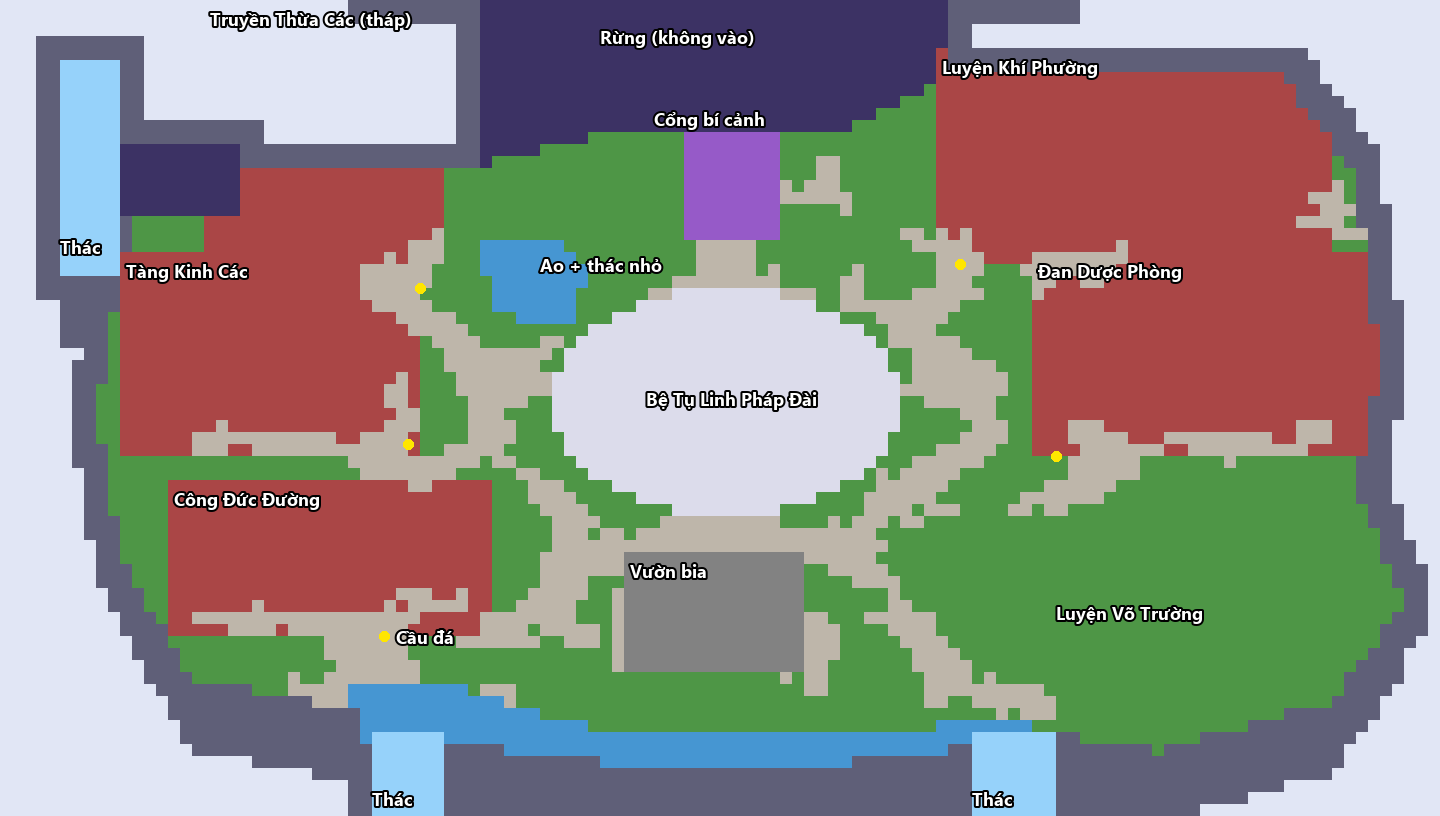
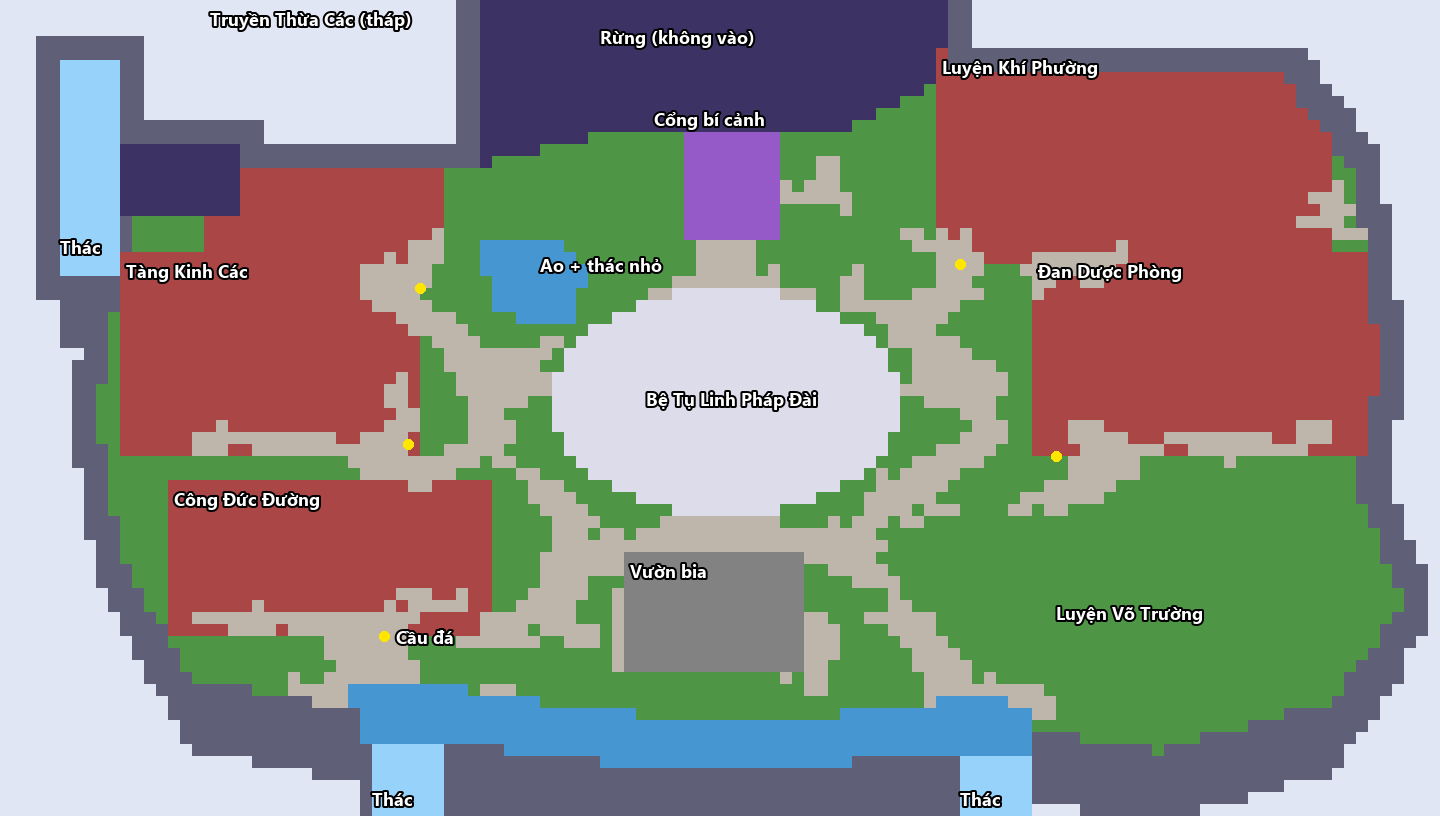
M8: sua vat the sanh: cay lui khoi mep vach, co de len nha, nha mo khi di sau, bong den, song rong hon, thac bat dau o mep bo + mau theo suoi, bo goc vach bac thang

diff --git a/src/data/sect_bocuc.js b/src/data/sect_bocuc.js
@@ -1,3 +1,3 @@
 // SINH TỰ ĐỘNG bởi tools/sect_bo_cuc.py — bố cục sảnh theo concept ảnh 1 (lưới ô). Đừng sửa tay.
 // . cỏ, = đường đá, ~ nước, d sân đất, ^ vách núi, T rừng, B chỗ công trình, P bệ, G cổng, X mây, b vườn bia, W thác
-export const BOCUC = {"nx": 120, "ny": 68, "rows": ["XXXXXXXXXXXXXXXXXXXXXXXXXXXXX^^^^^^^^^^^TTTTTTTTTTTTTTTTTTTTTTTTTTTTTTTTTTTTTTT^^^^^^^^^^^XXXXXXXXXXXXXXXXXXXXXXXXXXXXXX", "XXXXXXXXXXXXXXXXXXXXXXXXXXXXX^^^^^^^^^^^TTTTTTTTTTTTTTTTTTTTTTTTTTTTTTTTTTTTTTT^^^^^^^^^^^XXXXXXXXXXXXXXXXXXXXXXXXXXXXXX", "XXXXXXXXXXXXXXXXXXXXXXXXXXXXXXXXXXXXXX^^TTTTTTTTTTTTTTTTTTTTTTTTTTTTTTTTTTTTTTT^^XXXXXXXXXXXXXXXXXXXXXXXXXXXXXXXXXXXXXXX", "XXX^^^^^^^^^XXXXXXXXXXXXXXXXXXXXXXXXXX^^TTTTTTTTTTTTTTTTTTTTTTTTTTTTTTTTTTTTTTT^^XXXXXXXXXXXXXXXXXXXXXXXXXXXXXXXXXXXXXXX", "XXX^^^^^^^^^XXXXXXXXXXXXXXXXXXXXXXXXXX^^TTTTTTTTTTTTTTTTTTTTTTTTTTTTTTTTTTTTTTB^^^^^^^^^^^^^^^^^^^^^^^^^^^^^^XXXXXXXXXXX", "XXX^^WWWWW^^XXXXXXXXXXXXXXXXXXXXXXXXXX^^TTTTTTTTTTTTTTTTTTTTTTTTTTTTTTTTTTTTTTB^^^^^^^^^^^^^^^^^^^^^^^^^^^^^^^XXXXXXXXXX", "XXX^^WWWWW^^XXXXXXXXXXXXXXXXXXXXXXXXXX^^TTTTTTTTTTTTTTTTTTTTTTTTTTTTTTTTTTTTTTBBBBBBBBBBBBBBBBBBBBBBBBBBBBB^^^XXXXXXXXXX", "XXX^^WWWWW^^XXXXXXXXXXXXXXXXXXXXXXXXXX^^TTTTTTTTTTTTTTTTTTTTTTTTTTTTTTTTTTTTT.BBBBBBBBBBBBBBBBBBBBBBBBBBBBBB^^^XXXXXXXXX", "XXX^^WWWWW^^XXXXXXXXXXXXXXXXXXXXXXXXXX^^TTTTTTTTTTTTTTTTTTTTTTTTTTTTTTTTTTT...BBBBBBBBBBBBBBBBBBBBBBBBBBBBBB^^^^XXXXXXXX", "XXX^^WWWWW^^XXXXXXXXXXXXXXXXXXXXXXXXXX^^TTTTTTTTTTTTTTTTTTTTTTTTTTTTTTTTT.....BBBBBBBBBBBBBBBBBBBBBBBBBBBBBBB^^^^XXXXXXX", "XXX^^WWWWW^^^^^^^^^^^^XXXXXXXXXXXXXXXX^^TTTTTTTTTTTTTTTTTTTTTTTTTTTTTTT.......BBBBBBBBBBBBBBBBBBBBBBBBBBBBBBBB^^^XXXXXXX", "XXX^^WWWWW^^^^^^^^^^^^XXXXXXXXXXXXXXXX^^TTTTTTTTT........GGGGGGGG.............BBBBBBBBBBBBBBBBBBBBBBBBBBBBBBBBB^^^XXXXXX", "XXX^^WWWWWTTTTTTTTTT^^^^^^^^^^^^^^^^^^^^TTTTT............GGGGGGGG.............BBBBBBBBBBBBBBBBBBBBBBBBBBBBBBBBB^^^^XXXXX", "XXX^^WWWWWTTTTTTTTTT^^^^^^^^^^^^^^^^^^^^T................GGGGGGGG...==........BBBBBBBBBBBBBBBBBBBBBBBBBBBBBBBBB.^^^XXXXX", "XXX^^WWWWWTTTTTTTTTTBBBBBBBBBBBBBBBBB....................GGGGGGGG...==........BBBBBBBBBBBBBBBBBBBBBBBBBBBBBBBBB..^^XXXXX", "XXX^^WWWWWTTTTTTTTTTBBBBBBBBBBBBBBBBB....................GGGGGGGG=.===........BBBBBBBBBBBBBBBBBBBBBBBBBBBBBBBBB=.^^XXXXX", "XXX^^WWWWWTTTTTTTTTTBBBBBBBBBBBBBBBBB....................GGGGGGGG======.......BBBBBBBBBBBBBBBBBBBBBBBBBBBBBBB===.^^XXXXX", "XXX^^WWWWWTTTTTTTTTTBBBBBBBBBBBBBBBBB....................GGGGGGGG.....=.......BBBBBBBBBBBBBBBBBBBBBBBBBBBBBBBB===^^^XXXX", "XXX^^WWWWW^......BBBBBBBBBBBBBBBBBBBB....................GGGGGGGG.............BBBBBBBBBBBBBBBBBBBBBBBBBBBBBB====.^^^XXXX", "XXX^^WWWWW^......BBBBBBBBBBBBBBBBBBB=....................GGGGGGGG..........==.=B=BBBBBBBBBBBBBBBBBBBBBBBBBBBBBB===^^XXXX", "XXX^^WWWWW^......BBBBBBBBBBBBBBBBB===...~~~~~~~...........=====.............=====BBBBBBBBBBBB=BBBBBBBBBBBBBBBBB...^^XXXX", "XXX^^WWWWWBBBBBBBBBBBBBBBBBBBBBB=B===...~~~~~~~~..........=====...............====BBBB========BBBBBBBBBBBBBBBBBBBB^^XXXX", "XXX^^WWWWWBBBBBBBBBBBBBBBBBBBB======....~~~~~~~~~.........=====.=......=......====...========BBBBBBBBBBBBBBBBBBBBB^^XXXX", "XXX^^^^^^^BBBBBBBBBBBBBBBBBBBB======.....~~~~~~~~.......=========.....==......===.....==BB==BBBBBBBBBBBBBBBBBBBBBB^^XXXX", "XXX^^^^^^^BBBBBBBBBBBBBBBBBBBB=====......~~~~~~~......==PPPPPPPPP===..==....======....=BBBBBBBBBBBBBBBBBBBBBBBBBBB^^XXXX", "XXXXX^^^^^BBBBBBBBBBBBBBBBBBBBB=====.....~~~~~~~.....PPPPPPPPPPPPPPP..==========......BBBBBBBBBBBBBBBBBBBBBBBBBBBB^^^XXX", "XXXXX^^^^.BBBBBBBBBBBBBBBBBBBBBBB=====.....~~~~~...PPPPPPPPPPPPPPPPPPP...======.......BBBBBBBBBBBBBBBBBBBBBBBBBBBB^^^XXX", "XXXXX^^^^.BBBBBBBBBBBBBBBBBBBBBBBB=====..........PPPPPPPPPPPPPPPPPPPPPPP..====........BBBBBBBBBBBBBBBBBBBBBBBBBBBBB^^XXX", "XXXXX^^^^.BBBBBBBBBBBBBBBBBBBBBBBBB.====.....==.PPPPPPPPPPPPPPPPPPPPPPPPP.======......BBBBBBBBBBBBBBBBBBBBBBBBBBBBB^^XXX", "XXXXXXX^^.BBBBBBBBBBBBBBBBBBBBBBBBB..=========.PPPPPPPPPPPPPPPPPPPPPPPPPPP..=====.....BBBBBBBBBBBBBBBBBBBBBBBBBBBBB^^XXX", "XXXXXX^^^.BBBBBBBBBBBBBBBBBBBBBBBBB..========..PPPPPPPPPPPPPPPPPPPPPPPPPPP..=======...BBBBBBBBBBBBBBBBBBBBBBBBBBBBB^^XXX", "XXXXXX^^^.BBBBBBBBBBBBBBBBBBBBBBB=B...========PPPPPPPPPPPPPPPPPPPPPPPPPPPPP.========..BBBBBBBBBBBBBBBBBBBBBBBBBBBBB^^XXX", "XXXXXX^^..BBBBBBBBBBBBBBBBBBBBBB==B...========PPPPPPPPPPPPPPPPPPPPPPPPPPPPP=========..BBBBBBBBBBBBBBBBBBBBBBBBBBBBB^^XXX", "XXXXXX^^..BBBBBBBBBBBBBBBBBBBBBB==B....=====..PPPPPPPPPPPPPPPPPPPPPPPPPPPPP..======...BBBBBBBBBBBBBBBBBBBBBBBBBBBB^^^XXX", "XXXXXX^^..BBBBBBBBBBBBBBBBBBBBBBB==....===....PPPPPPPPPPPPPPPPPPPPPPPPPPPPP.....===...BBBBBBBBBBBBBBBBBBBBBBBBBBBB^^^XXX", "XXXXXX^^..BBBBBBBB=BBBBBBBBBBBBB===....====...PPPPPPPPPPPPPPPPPPPPPPPPPPPPP......===..BBB===BBBBBBBBBBBBBBBB===BBB^^XXXX", "XXXXXX^^..BBBBBB============BB====B....====....PPPPPPPPPPPPPPPPPPPPPPPPPPP......====..BBB=====BBB=========BB===BBB^^XXXX", "XXXXXX^^^.BBBBBB===BB=============B..=====.....PPPPPPPPPPPPPPPPPPPPPPPPPPP....=====...BBBB=======BB==========BBBBB^^XXXX", "XXXXXX^^^....................===========.==.....PPPPPPPPPPPPPPPPPPPPPPPPP...======.......======.......=..........^^^XXXX", "XXXXXXX^^.....................========.....==....PPPPPPPPPPPPPPPPPPPPPPP.=.=====.........======..................^^^XXXX", "XXXXXXX^^.....BBBBBBBBBBBBBBBBBBBB==BBBBB...===....PPPPPPPPPPPPPPPPPPP...======........======....................^^^XXXX", "XXXXXXX^^.....BBBBBBBBBBBBBBBBBBBBBBBBBBB...====.....PPPPPPPPPPPPPPP....======.......=======.....................^^^XXXX", "XXXXXXX^^.....BBBBBBBBBBBBBBBBBBBBBBBBBBB....====.......PPPPPPPPP.......====.===....==.==.........................^^^XXX", "XXXXXXX^^^....BBBBBBBBBBBBBBBBBBBBBBBBBBB.....====.....==========....=.===.==.....................................^^^XXX", "XXXXXXX^^^....BBBBBBBBBBBBBBBBBBBBBBBBBBB.....===.==.====================..........................................^^XXX", "XXXXXXXX^^....BBBBBBBBBBBBBBBBBBBBBBBBBBB.....============================.........................................^^^XX", "XXXXXXXX^^....BBBBBBBBBBBBBBBBBBBBBBBBBBB....=======bbbbbbbbbbbbbbb======..........................................^^^XX", "XXXXXXXX^^^...BBBBBBBBBBBBBBBBBBBBBBBBBBB....=======bbbbbbbbbbbbbbb..=====..........................................^^^X", "XXXXXXXX^^^...BBBBBBBBBBBBBBBBBBBBBBBBBBB....====...bbbbbbbbbbbbbbb....====.........................................^^^X", "XXXXXXXXX^^^..BBBBBBBBBBBBBBBBBBB===BB=BB...=====..=bbbbbbbbbbbbbbb.......=..........................................^^X", "XXXXXXXXX^^^..BBBBBBB=BBBBBBBBBB=B=====BB..=====...=bbbbbbbbbbbbbbb.......==.........................................^^X", "XXXXXXXXXX^^^.BB===================BBBBB========...=bbbbbbbbbbbbbbb==...======......................................^^^X", "XXXXXXXXXX^^^^BBBBB====B==========BBBBBB====.=====.=bbbbbbbbbbbbbbb===....====.....................................^^^^X", "XXXXXXXXXXX^^^.............=======....=======..===.=bbbbbbbbbbbbbbb===.....====....................................^^^XX", "XXXXXXXXXXX^^^^............=======.................=bbbbbbbbbbbbbbb===......====..................................^^^XXX", "XXXXXXXXXXXX^^^.............=======................=bbbbbbbbbbbbbbb==.......=====................................^^^^XXX", "XXXXXXXXXXXX^^^^........=..========..............................=.==........====.=.............................^^^^^XXX", "XXXXXXXXXXXXX^^^^^^^^...=====~~~~~~~~~~.===........................==........==========.........................^^^^XXXX", "XXXXXXXXXXXXXX^^^^^^^^^^^^===~~~~~~~~~~~~~=..................................==..=======.......................^^^^XXXXX", "XXXXXXXXXXXXXX^^^^^^^^^^^^^^^^~~~~~~~~~~~~~~~......................................=.===...................^^^^^^^^XXXXX", "XXXXXXXXXXXXXXX^^^^^^^^^^^^^^^~~~~~~~~~~~~~~~~~~~.............................~~~~~~~~..................^^^^^^^^^^XXXXXX", "XXXXXXXXXXXXXXX^^^^^^^^^^^^^^^~WWWWWW~~~~~~~~~~~~~~~~~~~~~~~~~~~~~~~~~~~~~~~~~~~~WWWWWWW^^..........^^^^^^^^^^^^^XXXXXXX", "XXXXXXXXXXXXXXXX^^^^^^^^^^^^^^^WWWWWW^^^^^~~~~~~~~~~~~~~~~~~~~~~~~~~~~~~~~~~~~~^^WWWWWWW^^^^^^^^.^^^^^^^^^^^^^^^XXXXXXXX", "XXXXXXXXXXXXXXXXXXXXX^^^^^^^^^^WWWWWW^^^^^^^^^^^^^~~~~~~~~~~~~~~~~~~~~~^^^^^^^^^^WWWWWWW^^^^^^^^^^^^^^^^^^^^^^^^XXXXXXXX", "XXXXXXXXXXXXXXXXXXXXXXXXXX^^^^^WWWWWW^^^^^^^^^^^^^^^^^^^^^^^^^^^^^^^^^^^^^^^^^^^^WWWWWWW^^^^^^^^^^^^^^^^^^^^^^^XXXXXXXXX", "XXXXXXXXXXXXXXXXXXXXXXXXXXXXX^^WWWWWW^^^^^^^^^^^^^^^^^^^^^^^^^^^^^^^^^^^^^^^^^^^^WWWWWWW^^^^^^^^^^^^^^^^^^^XXXXXXXXXXXXX", "XXXXXXXXXXXXXXXXXXXXXXXXXXXXX^^WWWWWW^^^^^^^^^^^^^^^^^^^^^^^^^^^^^^^^^^^^^^^^^^^^WWWWWWW^^^^^^^^^^^^^^^^XXXXXXXXXXXXXXXX", "XXXXXXXXXXXXXXXXXXXXXXXXXXXXX^^WWWWWW^^^^^^^^^^^^^^^^^^^^^^^^^^^^^^^^^^^^^^^^^^^^WWWWWWW^^^^^^^^^^^^XXXXXXXXXXXXXXXXXXXX"], "buildings": {"truyen_thua": {"box": [17, 0, 36, 21], "foot": [35, 24], "name": "Truyền Thừa Các (tháp)"}, "tang_kinh": {"box": [10, 21, 34, 37], "foot": [34, 37], "name": "Tàng Kinh Các"}, "cong_duc": {"box": [14, 40, 40, 52], "foot": [32, 53], "name": "Công Đức Đường"}, "luyen_khi": {"box": [78, 4, 110, 21], "foot": [80, 22], "name": "Luyện Khí Phường"}, "dan_duoc": {"box": [86, 21, 114, 37], "foot": [88, 38], "name": "Đan Dược Phòng"}}, "plaza": {"c": [60.5, 33], "rx": 14, "ry": 9}, "gate": {"x": [57, 64], "y": [11, 19]}, "tf": {"c_old": [60.5, 33], "c": [60.5, 33], "sx": 1, "sy": 1}, "pen": {"x": 82, "y": 41, "w": 26, "h": 16, "gate": [83, 86], "door": [84.5, 40.2]}};
+export const BOCUC = {"nx": 120, "ny": 68, "rows": ["XXXXXXXXXXXXXXXXXXXXXXXXXXXXXXXXXXXXXX^^TTTTTTTTTTTTTTTTTTTTTTTTTTTTTTTTTTTTTTT^^XXXXXXXXXXXXXXXXXXXXXXXXXXXXXXXXXXXXXXX", "XXXXXXXXXXXXXXXXXXXXXXXXXXXXXXXXXXXXXX^^TTTTTTTTTTTTTTTTTTTTTTTTTTTTTTTTTTTTTTT^^XXXXXXXXXXXXXXXXXXXXXXXXXXXXXXXXXXXXXXX", "XXXXXXXXXXXXXXXXXXXXXXXXXXXXXXXXXXXXXX^^TTTTTTTTTTTTTTTTTTTTTTTTTTTTTTTTTTTTTTT^^XXXXXXXXXXXXXXXXXXXXXXXXXXXXXXXXXXXXXXX", "XXX^^^^^^^^^XXXXXXXXXXXXXXXXXXXXXXXXXX^^TTTTTTTTTTTTTTTTTTTTTTTTTTTTTTTTTTTTTTT^^XXXXXXXXXXXXXXXXXXXXXXXXXXXXXXXXXXXXXXX", "XXX^^^^^^^^^XXXXXXXXXXXXXXXXXXXXXXXXXX^^TTTTTTTTTTTTTTTTTTTTTTTTTTTTTTTTTTTTTTB^^^^^^^^^^^^^^^^^^^^^^^^^^^^^^XXXXXXXXXXX", "XXX^^WWWWW^^XXXXXXXXXXXXXXXXXXXXXXXXXX^^TTTTTTTTTTTTTTTTTTTTTTTTTTTTTTTTTTTTTTB^^^^^^^^^^^^^^^^^^^^^^^^^^^^^^^XXXXXXXXXX", "XXX^^WWWWW^^XXXXXXXXXXXXXXXXXXXXXXXXXX^^TTTTTTTTTTTTTTTTTTTTTTTTTTTTTTTTTTTTTTBBBBBBBBBBBBBBBBBBBBBBBBBBBBB^^^XXXXXXXXXX", "XXX^^WWWWW^^XXXXXXXXXXXXXXXXXXXXXXXXXX^^TTTTTTTTTTTTTTTTTTTTTTTTTTTTTTTTTTTTT.BBBBBBBBBBBBBBBBBBBBBBBBBBBBBB^^^XXXXXXXXX", "XXX^^WWWWW^^XXXXXXXXXXXXXXXXXXXXXXXXXX^^TTTTTTTTTTTTTTTTTTTTTTTTTTTTTTTTTTT...BBBBBBBBBBBBBBBBBBBBBBBBBBBBBB^^^^XXXXXXXX", "XXX^^WWWWW^^XXXXXXXXXXXXXXXXXXXXXXXXXX^^TTTTTTTTTTTTTTTTTTTTTTTTTTTTTTTTT.....BBBBBBBBBBBBBBBBBBBBBBBBBBBBBBB^^^^XXXXXXX", "XXX^^WWWWW^^^^^^^^^^^^XXXXXXXXXXXXXXXX^^TTTTTTTTTTTTTTTTTTTTTTTTTTTTTTT.......BBBBBBBBBBBBBBBBBBBBBBBBBBBBBBBB^^^XXXXXXX", "XXX^^WWWWW^^^^^^^^^^^^XXXXXXXXXXXXXXXX^^TTTTTTTTT........GGGGGGGG.............BBBBBBBBBBBBBBBBBBBBBBBBBBBBBBBBB^^^XXXXXX", "XXX^^WWWWWTTTTTTTTTT^^^^^^^^^^^^^^^^^^^^TTTTT............GGGGGGGG.............BBBBBBBBBBBBBBBBBBBBBBBBBBBBBBBBB^^^^XXXXX", "XXX^^WWWWWTTTTTTTTTT^^^^^^^^^^^^^^^^^^^^T................GGGGGGGG...==........BBBBBBBBBBBBBBBBBBBBBBBBBBBBBBBBB.^^^XXXXX", "XXX^^WWWWWTTTTTTTTTTBBBBBBBBBBBBBBBBB....................GGGGGGGG...==........BBBBBBBBBBBBBBBBBBBBBBBBBBBBBBBBB..^^XXXXX", "XXX^^WWWWWTTTTTTTTTTBBBBBBBBBBBBBBBBB....................GGGGGGGG=.===........BBBBBBBBBBBBBBBBBBBBBBBBBBBBBBBBB=.^^XXXXX", "XXX^^WWWWWTTTTTTTTTTBBBBBBBBBBBBBBBBB....................GGGGGGGG======.......BBBBBBBBBBBBBBBBBBBBBBBBBBBBBBB===.^^XXXXX", "XXX^^WWWWWTTTTTTTTTTBBBBBBBBBBBBBBBBB....................GGGGGGGG.....=.......BBBBBBBBBBBBBBBBBBBBBBBBBBBBBBBB===^^^XXXX", "XXX^^WWWWW^......BBBBBBBBBBBBBBBBBBBB....................GGGGGGGG.............BBBBBBBBBBBBBBBBBBBBBBBBBBBBBB====.^^^XXXX", "XXX^^WWWWW^......BBBBBBBBBBBBBBBBBBB=....................GGGGGGGG..........==.=B=BBBBBBBBBBBBBBBBBBBBBBBBBBBBBB===^^XXXX", "XXX^^WWWWW^......BBBBBBBBBBBBBBBBB===...~~~~~~~...........=====.............=====BBBBBBBBBBBB=BBBBBBBBBBBBBBBBB...^^XXXX", "XXX^^WWWWWBBBBBBBBBBBBBBBBBBBBBB=B===...~~~~~~~~..........=====...............====BBBB========BBBBBBBBBBBBBBBBBBBB^^XXXX", "XXX^^WWWWWBBBBBBBBBBBBBBBBBBBB======....~~~~~~~~~.........=====.=......=......====...========BBBBBBBBBBBBBBBBBBBBB^^XXXX", "XXX^^^^^^^BBBBBBBBBBBBBBBBBBBB======.....~~~~~~~~.......=========.....==......===.....==BB==BBBBBBBBBBBBBBBBBBBBBB^^XXXX", "XXX^^^^^^^BBBBBBBBBBBBBBBBBBBB=====......~~~~~~~......==PPPPPPPPP===..==....======....=BBBBBBBBBBBBBBBBBBBBBBBBBBB^^XXXX", "XXXXX^^^^^BBBBBBBBBBBBBBBBBBBBB=====.....~~~~~~~.....PPPPPPPPPPPPPPP..==========......BBBBBBBBBBBBBBBBBBBBBBBBBBBB^^^XXX", "XXXXX^^^^.BBBBBBBBBBBBBBBBBBBBBBB=====.....~~~~~...PPPPPPPPPPPPPPPPPPP...======.......BBBBBBBBBBBBBBBBBBBBBBBBBBBB^^^XXX", "XXXXX^^^^.BBBBBBBBBBBBBBBBBBBBBBBB=====..........PPPPPPPPPPPPPPPPPPPPPPP..====........BBBBBBBBBBBBBBBBBBBBBBBBBBBBB^^XXX", "XXXXX^^^^.BBBBBBBBBBBBBBBBBBBBBBBBB.====.....==.PPPPPPPPPPPPPPPPPPPPPPPPP.======......BBBBBBBBBBBBBBBBBBBBBBBBBBBBB^^XXX", "XXXXXXX^^.BBBBBBBBBBBBBBBBBBBBBBBBB..=========.PPPPPPPPPPPPPPPPPPPPPPPPPPP..=====.....BBBBBBBBBBBBBBBBBBBBBBBBBBBBB^^XXX", "XXXXXX^^^.BBBBBBBBBBBBBBBBBBBBBBBBB..========..PPPPPPPPPPPPPPPPPPPPPPPPPPP..=======...BBBBBBBBBBBBBBBBBBBBBBBBBBBBB^^XXX", "XXXXXX^^^.BBBBBBBBBBBBBBBBBBBBBBB=B...========PPPPPPPPPPPPPPPPPPPPPPPPPPPPP.========..BBBBBBBBBBBBBBBBBBBBBBBBBBBBB^^XXX", "XXXXXX^^..BBBBBBBBBBBBBBBBBBBBBB==B...========PPPPPPPPPPPPPPPPPPPPPPPPPPPPP=========..BBBBBBBBBBBBBBBBBBBBBBBBBBBBB^^XXX", "XXXXXX^^..BBBBBBBBBBBBBBBBBBBBBB==B....=====..PPPPPPPPPPPPPPPPPPPPPPPPPPPPP..======...BBBBBBBBBBBBBBBBBBBBBBBBBBBB^^^XXX", "XXXXXX^^..BBBBBBBBBBBBBBBBBBBBBBB==....===....PPPPPPPPPPPPPPPPPPPPPPPPPPPPP.....===...BBBBBBBBBBBBBBBBBBBBBBBBBBBB^^^XXX", "XXXXXX^^..BBBBBBBB=BBBBBBBBBBBBB===....====...PPPPPPPPPPPPPPPPPPPPPPPPPPPPP......===..BBB===BBBBBBBBBBBBBBBB===BBB^^XXXX", "XXXXXX^^..BBBBBB============BB====B....====....PPPPPPPPPPPPPPPPPPPPPPPPPPP......====..BBB=====BBB=========BB===BBB^^XXXX", "XXXXXX^^^.BBBBBB===BB=============B..=====.....PPPPPPPPPPPPPPPPPPPPPPPPPPP....=====...BBBB=======BB==========BBBBB^^XXXX", "XXXXXX^^^....................===========.==.....PPPPPPPPPPPPPPPPPPPPPPPPP...======.......======.......=..........^^^XXXX", "XXXXXXX^^.....................========.....==....PPPPPPPPPPPPPPPPPPPPPPP.=.=====.........======..................^^^XXXX", "XXXXXXX^^.....BBBBBBBBBBBBBBBBBBBB==BBBBB...===....PPPPPPPPPPPPPPPPPPP...======........======....................^^^XXXX", "XXXXXXX^^.....BBBBBBBBBBBBBBBBBBBBBBBBBBB...====.....PPPPPPPPPPPPPPP....======.......=======.....................^^^XXXX", "XXXXXXX^^.....BBBBBBBBBBBBBBBBBBBBBBBBBBB....====.......PPPPPPPPP.......====.===....==.==.........................^^^XXX", "XXXXXXX^^^....BBBBBBBBBBBBBBBBBBBBBBBBBBB.....====.....==========....=.===.==.....................................^^^XXX", "XXXXXXX^^^....BBBBBBBBBBBBBBBBBBBBBBBBBBB.....===.==.====================..........................................^^XXX", "XXXXXXXX^^....BBBBBBBBBBBBBBBBBBBBBBBBBBB.....============================.........................................^^^XX", "XXXXXXXX^^....BBBBBBBBBBBBBBBBBBBBBBBBBBB....=======bbbbbbbbbbbbbbb======..........................................^^^XX", "XXXXXXXX^^^...BBBBBBBBBBBBBBBBBBBBBBBBBBB....=======bbbbbbbbbbbbbbb..=====..........................................^^^X", "XXXXXXXX^^^...BBBBBBBBBBBBBBBBBBBBBBBBBBB....====...bbbbbbbbbbbbbbb....====.........................................^^^X", "XXXXXXXXX^^^..BBBBBBBBBBBBBBBBBBB===BB=BB...=====..=bbbbbbbbbbbbbbb.......=..........................................^^X", "XXXXXXXXX^^^..BBBBBBB=BBBBBBBBBB=B=====BB..=====...=bbbbbbbbbbbbbbb.......==.........................................^^X", "XXXXXXXXXX^^^.BB===================BBBBB========...=bbbbbbbbbbbbbbb==...======......................................^^^X", "XXXXXXXXXX^^^^BBBBB====B==========BBBBBB====.=====.=bbbbbbbbbbbbbbb===....====.....................................^^^^X", "XXXXXXXXXXX^^^.............=======....=======..===.=bbbbbbbbbbbbbbb===.....====....................................^^^XX", "XXXXXXXXXXX^^^^............=======.................=bbbbbbbbbbbbbbb===......====..................................^^^XXX", "XXXXXXXXXXXX^^^.............=======................=bbbbbbbbbbbbbbb==.......=====................................^^^^XXX", "XXXXXXXXXXXX^^^^........=..========..............................=.==........====.=.............................^^^^^XXX", "XXXXXXXXXXXXX^^^^^^^^...=====~~~~~~~~~~.===........................==........==========.........................^^^^XXXX", "XXXXXXXXXXXXXX^^^^^^^^^^^^===~~~~~~~~~~~~~~~~................................==..=======.......................^^^^XXXXX", "XXXXXXXXXXXXXX^^^^^^^^^^^^^^^^~~~~~~~~~~~~~~~~~~~~~~~.................~~~~~~~~~~~~~~~===...................^^^^^^^^XXXXX", "XXXXXXXXXXXXXXX^^^^^^^^^^^^^^^~~~~~~~~~~~~~~~~~~~~~~~~~~~~~~~~~~~~~~~~~~~~~~~~~~~~~~~~..................^^^^^^^^^^XXXXXX", "XXXXXXXXXXXXXXX^^^^^^^^^^^^^^^~~~~~~~~~~~~~~~~~~~~~~~~~~~~~~~~~~~~~~~~~~~~~~~~~~~~~~~~^^^^..........^^^^^^^^^^^^^XXXXXXX", "XXXXXXXXXXXXXXXX^^^^^^^^^^^^^^^WWWWWW^^^^^~~~~~~~~~~~~~~~~~~~~~~~~~~~~~~~~~~~~~~~~~~~~^^^^^^^^^^.^^^^^^^^^^^^^^^XXXXXXXX", "XXXXXXXXXXXXXXXXXXXXX^^^^^^^^^^WWWWWW^^^^^^^^^^^^^~~~~~~~~~~~~~~~~~~~~~^^^^^^^^^WWWWWW^^^^^^^^^^^^^^^^^^^^^^^^^^XXXXXXXX", "XXXXXXXXXXXXXXXXXXXXXXXXXX^^^^^WWWWWW^^^^^^^^^^^^^^^^^^^^^^^^^^^^^^^^^^^^^^^^^^^WWWWWW^^^^^^^^^^^^^^^^^^^^^^^^^XXXXXXXXX", "XXXXXXXXXXXXXXXXXXXXXXXXXXXXXX^WWWWWW^^^^^^^^^^^^^^^^^^^^^^^^^^^^^^^^^^^^^^^^^^^WWWWWW^^^^^^^^^^^^^^^^^^^^^XXXXXXXXXXXXX", "XXXXXXXXXXXXXXXXXXXXXXXXXXXXXX^WWWWWW^^^^^^^^^^^^^^^^^^^^^^^^^^^^^^^^^^^^^^^^^^^WWWWWW^^^^^^^^^^^^^^^^^^XXXXXXXXXXXXXXXX", "XXXXXXXXXXXXXXXXXXXXXXXXXXXXXX^WWWWWW^^^^^^^^^^^^^^^^^^^^^^^^^^^^^^^^^^^^^^^^^^^WWWWWWXXXX^^^^^^^^^^XXXXXXXXXXXXXXXXXXXX"], "buildings": {"truyen_thua": {"box": [17, 0, 36, 21], "foot": [35, 24], "name": "Truyền Thừa Các (tháp)"}, "tang_kinh": {"box": [10, 21, 34, 37], "foot": [34, 37], "name": "Tàng Kinh Các"}, "cong_duc": {"box": [14, 40, 40, 52], "foot": [32, 53], "name": "Công Đức Đường"}, "luyen_khi": {"box": [78, 4, 110, 21], "foot": [80, 22], "name": "Luyện Khí Phường"}, "dan_duoc": {"box": [86, 21, 114, 37], "foot": [88, 38], "name": "Đan Dược Phòng"}}, "plaza": {"c": [60.5, 33], "rx": 14, "ry": 9}, "gate": {"x": [57, 64], "y": [11, 19]}, "tf": {"c_old": [60.5, 33], "c": [60.5, 33], "sx": 1, "sy": 1}, "pen": {"x": 82, "y": 41, "w": 26, "h": 16, "gate": [83, 86], "door": [84.5, 40.2]}};

diff --git a/src/render/render.js b/src/render/render.js
@@ -186,6 +186,36 @@ function baseShadow(img, stair, stairs = null) {
   }
   _baseShadow.set(img, c); return c;
 }
+const _alphaMap = new WeakMap();
+function alphaAt(img, x, y) {   // (17/11) độ đục 1 điểm ảnh của sprite (đã cache) — dò nhân vật có bị nhà che không
+  let a = _alphaMap.get(img);
+  if (!a) { const c = document.createElement('canvas'); c.width = img.width; c.height = img.height; const g = c.getContext('2d'); g.drawImage(img, 0, 0);
+    const d = g.getImageData(0, 0, c.width, c.height).data; a = new Uint8Array(c.width * c.height); for (let i = 0; i < a.length; i++) a[i] = d[i * 4 + 3]; _alphaMap.set(img, a); }
+  x = Math.floor(x); y = Math.floor(y); return x < 0 || y < 0 || x >= img.width || y >= img.height ? 0 : a[y * img.width + x];
+}
+// (17/11) cỏ/hoa trang trí ngay trước chân nhà/bệ: vẽ ở lớp vật thể (xếp theo chân) để đè lên nền nhà thay vì bị nền che
+function nhaRects(map, vis) {
+  const r = [];
+  if (vis.nha) for (const b of map.sect.nhaAll || []) { const n = b.nha, v = n && vis.nha[n.id]; if (v) r.push({ x: n.x, y: n.y, img: v.base }); }
+  if (vis.plaza) r.push({ x: Math.round(map.cx - vis.plaza.ax), y: Math.round(map.cy - vis.plaza.ay), img: vis.plaza.base });
+  return r;
+}
+function decorOverNha(map, props, tx, ty, img, rects) {   // 0: không chạm nhà; 1: chân trên nền nhà (bỏ); 2: chân trên đất, hình lấn lên nhà (vẽ ở lớp vật thể)
+  const x0 = tx * T + 8 - img.ax, y0 = ty * T + T - 1 - img.ay, fx = tx * T + 8, fy = ty * T + T - 1;
+  let hit = 0;
+  for (const r of rects) {
+    if (x0 >= r.x + r.img.width || x0 + img.width <= r.x || y0 >= r.y + r.img.height || y0 + img.height <= r.y) continue;
+    if (alphaAt(r.img, fx - r.x, fy - r.y) > 40) return 1;
+    hit = 2;
+  }
+  return hit;
+}
+// (17/11) người chơi đứng sau nhà: thân bị lớp che (strip có chân thấp hơn người) phủ -> cả nhà vẽ mờ như tán cây
+function behindNha(p, n, v) {
+  if (!(p.x > n.x && p.x < n.x + v.base.width && p.y > n.y && p.y < n.y + v.base.height)) return false;
+  for (const s of v.strips) { if (n.y + s.foot <= p.y) continue; if (alphaAt(s.img, p.x - n.x - s.x, p.y - 10 - n.y - s.y) > 100 && alphaAt(s.img, p.x - n.x - s.x, p.y - 20 - n.y - s.y) > 100) return true; }   // dò ngực, đầu (lan can thấp không tính)
+  return false;
+}
 function castShadow(img) {
   let c = _shadow.get(img); if (c) return c;
   const w = img.width, h = img.height, f = 0.26, pad = 4;   // bóng nằm ngay dưới vật: hình bóng ép dẹt, mép làm mềm
@@ -317,7 +347,15 @@ function paintCoDa(g, map, tx, ty, x, y) {
 // (cỏ rủ), 2 chân vách tan vào mây (0-3) / cạnh trái (4) / cạnh phải (7), 3 nước, 4 bờ suối (trên 0-1, dưới 2-3, trái 4, phải 5, sen 6-7),
 // 5 thác (đỉnh 0, thân 4 khung 1-4, chân bọt 5-6)
 let VN = null;
-export function setVachNuoc(img) { VN = img; }
+export function setVachNuoc(img) {   // (17/11) thân thác (ô 40–47) kéo màu về gần màu suối: thác là nước suối đổ xuống, không xanh nhạt lạc tông
+  VN = img;
+  if (typeof document === 'undefined' || !img || !img.width) return;
+  const c = document.createElement('canvas'); c.width = img.width; c.height = img.height; const g = c.getContext('2d'); g.drawImage(img, 0, 0);
+  const d = g.getImageData(0, 5 * T, 8 * T, T), a = d.data;
+  for (let i = 0; i < a.length; i += 4) { const l = (a[i] + a[i + 1] + a[i + 2]) / 765, k = 0.75 * (1 - Math.max(0, l - 0.72) / 0.28);   // giữ vệt sáng trắng
+    a[i] += (-48) * k; a[i + 1] += (-30) * k; a[i + 2] += (-28) * k; }
+  g.putImageData(d, 0, 5 * T); VN = c;
+}
 const vnTile = (g, id, x, y) => g.drawImage(VN, (id & 7) * T, (id >> 3) * T, T, T, x, y, T, T);
 // M8 (16/11): sân đất Luyện Võ — nền đất + viền: mép giáp rào/cỏ có dải đất sẫm và vệt cỏ lấn vào, góc bo tròn
 function paintDirtYard(g, map, tx, ty, x, y) {
@@ -330,6 +368,20 @@ function paintDirtYard(g, map, tx, ty, x, y) {
   for (let i = 0; i < 3; i++) { const h = hash(tx, ty, 91 + i), k = Math.floor(h * 14);
     if (n) g.fillRect(x + k, y, 2, 1 + (i & 1)); if (s) g.fillRect(x + k, y + T - 1 - (i & 1), 2, 1 + (i & 1));
     if (w) g.fillRect(x, y + k, 1 + (i & 1), 2); if (e) g.fillRect(x + T - 1 - (i & 1), y + k, 1 + (i & 1), 2); }
+}
+// (17/11) mép vách bậc thang: góc lồi của đất (dưới + bên là vách) cắt cong -> mặt đá lộ theo cung; góc lõm (vách có đất trên + bên) phủ cỏ theo cung
+const CR = 7;   // bán kính bo (px)
+function roundLandCorner(g, map, tx, ty, x, y) {
+  const cf = (dx, dy) => { const t = map.tileAt(tx + dx, ty + dy); return t === CLIFF; };
+  if (!cf(0, 1)) return;
+  for (const dx of [-1, 1]) {
+    if (!cf(dx, 0) || !cf(dx, 1)) continue;
+    const cx = dx < 0 ? x + CR : x + T - CR, cy = y + T - CR;
+    g.save(); g.beginPath(); g.rect(dx < 0 ? x : x + T - CR, y + T - CR, CR, CR); g.arc(cx, cy, CR, 0, 6.283, true); g.clip('evenodd');
+    vnTile(g, 8 + Math.floor(hash(tx, ty + 1, 82) * 8), x, y + T - 4); g.restore();   // lấp góc bằng phần mép trên của ô vách
+    g.fillStyle = '#3f7a35';
+    for (let i = 0; i <= 8; i++) { const a = (dx < 0 ? Math.PI / 2 : 0) + i / 8 * Math.PI / 2; const px = Math.round(cx + Math.cos(a) * (CR - 0.5)), py = Math.round(cy + Math.sin(a) * (CR - 0.5)); g.fillRect(px - (dx < 0 ? 0 : 1), py - 1, 2, 2); }
+  }
 }
 function paintCliffVN(g, map, tx, ty, x, y) {   // (17/11) chỉ dùng ô mặt vách (0-7, mép chung) + ô mép trên (8-15); mép giáp mây/cỏ/đáy vẽ phủ theo đường cong
   const up = map.tileAt(tx, ty - 1), v = Math.floor(hash(tx, ty, 82) * 8);
@@ -350,6 +402,11 @@ function paintCliffVN(g, map, tx, ty, x, y) {   // (17/11) chỉ dùng ô mặt 
   for (const dx of [-1, 1]) if (wk(dx, 0)) {
     for (let r = 0; r < T; r++) { const w = 2 + ((hash(tx, ty * T + r, 93) * 2) | 0); const gx = dx < 0 ? x : x + T - w;
       g.fillStyle = '#4f8a3c'; g.fillRect(gx, y + r, w, 1); g.fillStyle = 'rgba(30,25,50,.45)'; g.fillRect(dx < 0 ? x + w : x + T - w - 1, y + r, 1, 1); }
+    if (wk(0, -1)) {   // góc lõm: đất ở trên và bên -> cỏ phủ thành cung tròn nối mép trên với mép bên
+      const cx = dx < 0 ? x : x + T, R = CR + 2;
+      g.fillStyle = '#4f8a3c'; g.beginPath(); g.moveTo(cx, y); g.arc(cx, y, R, dx < 0 ? 0 : Math.PI / 2, dx < 0 ? Math.PI / 2 : Math.PI); g.closePath(); g.fill();
+      g.fillStyle = 'rgba(30,25,50,.4)'; for (let i = 0; i <= 8; i++) { const a = (dx < 0 ? 0 : Math.PI / 2) + i / 8 * Math.PI / 2; g.fillRect(Math.round(cx + Math.cos(a) * R) - (dx < 0 ? 0 : 1), Math.round(y + Math.sin(a) * R), 1, 1); }
+    }
   }
 }
 // (17/11) bờ nước: ô bờ cũ của tileset (trên/dưới/trái/phải); ô góc (nếu có trong tileset: hàng 6–7) cho góc ngoài/trong
@@ -404,7 +461,7 @@ function buildChunk(map, cx, cy, phase, props) {
     else if (map.sect && t === DIRT) paintDirtYard(g, map, tx, ty, x, y);
     else if (map.sect && VN && t === WATER) paintWaterVN(g, map, tx, ty, x, y);
     else if (map.sect && VN && (t === CLIFF || t === FALL)) paintCliffVN(g, map, tx, ty, x, y);
-    else if (map.sect && CODA && (t === STONE || t === GRASS || t === BUILDING || t === FENCE || t === DIRT)) paintCoDa(g, map, tx, ty, x, y);
+    else if (map.sect && CODA && (t === STONE || t === GRASS || t === BUILDING || t === FENCE || t === DIRT)) { paintCoDa(g, map, tx, ty, x, y); if (VN) roundLandCorner(g, map, tx, ty, x, y); }
     else if (map.sect && t === STONE) paintPath(g, map, tx, ty, x, y);
     else if (map.sect && (t === CLIFF || t === FALL)) paintCliff(g, map, tx, ty, x, y);
     else if (map.sect && t === CLOUD) paintCloud(g, tx, ty, x, y);
@@ -417,12 +474,14 @@ function buildChunk(map, cx, cy, phase, props) {
     let img = null;
     if (t === GRASS && d < 0.05) img = props[pick(DECOR_KINDS, d / 0.05)];
     else if (t === WATER && d < 0.05 && map.tileAt(tx, ty - 1) === WATER && !(map.sect && VN)) img = props.sen;   // sảnh: sen vẽ trên gợn nước (drawWaterFx)
+    if (img && map.sect && map._nhaRects && t === GRASS && decorOverNha(map, props, tx, ty, img, map._nhaRects)) continue;
     if (img) g.drawImage(img, x + 8 - img.ax, y + T - 1 - img.ay);
   }
   return c;
 }
 function drawMapCached(ctx, map, camX, camY, time, objs, vis) {
   const props = vis.props;
+  if (map.sect && !map._nhaRects && (vis.nha || vis.plaza)) { map._nhaRects = nhaRects(map, vis); vis.mapCache = null; }   // (17/11) cỏ chạm nhà vẽ ở lớp vật thể
   if (!vis.mapCache || vis.mapCache.map !== map || vis.mapCache.props !== props) vis.mapCache = { map, props, img: new Map(), objs: new Map() };
   const mc = vis.mapCache, phase = Math.floor(time * 1.5) & 1;
   const ncx = Math.ceil(map.pw / CPX), ncy = Math.ceil(map.ph / CPX);
@@ -1129,7 +1188,11 @@ export function render(ctx, g) {
     if (g.sect && vis.tm) {   // (17/11) đổ bóng VẼ TRƯỚC nền nhà/bệ (bóng nằm dưới, không phủ lên sàn): bóng hắt (bóng hình vật xô nghiêng lên phải, mờ) dưới công trình, cây, đồ vật
       ctx.globalAlpha = 0.45;
       const cast = (img, x, footY) => { const sh = castShadow(img); const top = footY - sh.height + 7; if (x - 4 < camX + W && x + sh.width > camX && top < camY + H && top + sh.height > camY) ctx.drawImage(sh, x - 4, top); };   // đáy bóng lấn 3 px dưới chân
-      for (const o of g.sect.props) { const img = !o.flat && vis.tm[o.s]; if (img && img.width > 20) cast(img, Math.round(o.x - img.width / 2), Math.round(o.y)); }
+      for (const o of g.sect.props) { const img = !o.flat && vis.tm[o.s]; if (img && img.width > 6) cast(img, Math.round(o.x - img.width / 2), Math.round(o.y)); }
+      ctx.fillStyle = '#141626';   // (17/11) vật nhỏ (đèn đá, bia nhỏ, khóm hoa): thêm bóng tiếp đất elip mềm dưới chân — bóng hắt quá mỏng để thấy
+      for (const o of g.sect.props) { const img = !o.flat && vis.tm[o.s]; if (!img || img.width > 48 || o.x < camX - 40 || o.x > camX + W + 40 || o.y < camY - 10 || o.y > camY + H + 20) continue;
+        const rx = Math.max(5, img.width * 0.42); for (const [k, a] of [[1.3, 0.16], [1, 0.22], [0.65, 0.28]]) { ctx.globalAlpha = a; ctx.beginPath(); ctx.ellipse(o.x + 2, o.y - 1, rx * k, 2.6 * k, 0, 0, 6.283); ctx.fill(); } }
+      ctx.globalAlpha = 0.45;
       if (vis.plaza) {   // (17/11) bóng quanh bệ pháp đài, né 4 lối bậc
         const P0 = vis.plaza; if (!P0.shadow) P0.shadow = baseShadow(P0.base, null, (P0.stairs || []).map(z => z.r));
         const bx = Math.round(map.cx - P0.ax), by = Math.round(map.cy - P0.ay); ctx.globalAlpha = 0.6; ctx.drawImage(P0.shadow, bx - 6 + 3, by - 6 + 6); ctx.globalAlpha = 0.45;
@@ -1138,7 +1201,7 @@ export function render(ctx, g) {
         if (n.x - 6 < camX + W && n.x + sh.width > camX && n.y < camY + H && n.y + sh.height > camY) { ctx.globalAlpha = 0.6; ctx.drawImage(sh, n.x - 6 + 3, n.y - 6 + 6); ctx.globalAlpha = 0.45; } }
       ctx.globalAlpha = 1;
     }
-    if (g.sect && vis.nha) for (const b of g.sect.nhaAll) { const n = b.nha, v = n && vis.nha[n.id]; if (v) ctx.drawImage(v.base, n.x, n.y); }   // M8-15: nền nhà lớn
+    if (g.sect && vis.nha) for (const b of g.sect.nhaAll) { const n = b.nha, v = n && vis.nha[n.id]; if (v && !behindNha(p, n, v)) ctx.drawImage(v.base, n.x, n.y); }   // M8-15: nền nhà lớn (đứng sau nhà: vẽ mờ ở lớp vật thể)
     if (g.sect && g.sect.gate && FEATURES.run && g.portal && vis.pfx) {   // xoáy bí cảnh trong lòng cổng (cổng là nhà lớn: nền đã vẽ, vòng cổng ở lớp che)
       const f = vis.pfx.portal, rg = g.sect.gate.ring; f.x = Math.round(rg.x); f.y = Math.round(rg.y + 30); f.scale = 0.95; f.draw(ctx); f.scale = 1;
     }
@@ -1212,7 +1275,8 @@ export function render(ctx, g) {
     }
     if (vis.nha) for (const b of g.sect.nhaAll) {   // M8-15: lớp che nhà lớn + tên khu trên mái
       const n = b.nha, v = n && vis.nha[n.id]; if (!v) continue;
-      for (const s of v.strips) { const dy = n.y + s.y; if (dy < camY + H && dy + s.img.height > camY && n.x + s.x < camX + W && n.x + s.x + s.img.width > camX) objs.push({ y: n.y + s.foot, img: s.img, x: n.x + s.x, dy, noFade: true }); }
+      if (behindNha(p, n, v)) objs.push({ y: n.y + v.base.height, img: v.base, x: n.x, dy: n.y, noFade: true, fade: true });   // cả nhà vẽ mờ đè lên người
+      else for (const s of v.strips) { const dy = n.y + s.y; if (dy < camY + H && dy + s.img.height > camY && n.x + s.x < camX + W && n.x + s.x + s.img.width > camX) objs.push({ y: n.y + s.foot, img: s.img, x: n.x + s.x, dy, noFade: true }); }
       if (b.name && Math.hypot(p.x - b.doorPx.x, p.y - b.doorPx.y) < 140) {
         const act = g.interact && g.interact.id === b.id, st = g.sectStatus && g.sectStatus(b.id);
         txt(ctx, b.name, Math.round(n.x + n.w / 2), n.y - (st ? 10 : 2), act ? '#fff6c8' : '#ffd978', act ? 11 : 10);
@@ -1228,6 +1292,12 @@ export function render(ctx, g) {
       if (!vis.penRail) vis.penRail = penRailSegs(ring.posts, vis.tm.tru_rao);
       for (const s of vis.penRail) if (s.x < camX + W && s.x + s.img.width > camX && s.dy < camY + H && s.y > camY) objs.push(s);
     }
+    if (vis.props && map._nhaRects) {   // (17/11) cỏ/hoa ngay trước nhà: vẽ ở lớp vật thể (đè lên nền nhà)
+      if (!map._decorOver) { map._decorOver = [];
+        for (let ty = 0; ty < map.h; ty++) for (let tx = 0; tx < map.w; tx++) { const d = hash(tx, ty, 8); if (map.tileAt(tx, ty) !== GRASS || d >= 0.05) continue;
+          const im = vis.props[pick(DECOR_KINDS, d / 0.05)]; if (im && decorOverNha(map, vis.props, tx, ty, im, map._nhaRects) === 2) map._decorOver.push({ y: ty * T + T - 1, img: im, x: tx * T + 8 - im.ax, dy: ty * T + T - 1 - im.ay, noFade: true }); } }
+      for (const o of map._decorOver) if (o.x < camX + W && o.x + o.img.width > camX && o.dy < camY + H && o.y > camY) objs.push(o);
+    }
     if (vis.tm) for (const o of g.sect.props) {
       const img = !o.flat && vis.tm[o.s];
       if (img && vis1(img, o.x, o.y)) objs.push({ y: o.y, img, x: Math.round(o.x - img.width / 2), dy: Math.round(o.y - img.height) });
@@ -1240,7 +1310,7 @@ export function render(ctx, g) {
       const covers = (ux, uy) => o.y > uy && ux > o.x - 2 && ux < o.x + o.img.width + 2 && uy - 16 < o.y && uy > o.dy;
       // cây ×2 tán lớn: cũng mờ khi có quái đứng sau (không để quái/đòn đánh khuất sau tán)
       const hide = covers(p.x, p.y) || (o.img.width > 60 && scene.monsters.some(m => !m.dead && covers(m.x, m.y)));
-      if (hide && !o.noFade) ctx.globalAlpha = 0.45;
+      if ((hide && !o.noFade) || o.fade) ctx.globalAlpha = 0.45;
       ctx.drawImage(o.img, o.x, o.dy);
       ctx.globalAlpha = 1;
       if (o.label && Math.hypot(p.x - o.door.x, p.y - o.door.y) < 96) {   // M8-03: đứng ở cửa -> "E · tên khu"

diff --git a/src/data/sect_layout.js b/src/data/sect_layout.js
@@ -47,16 +47,16 @@ export const SECT = {
     // đèn đá
     ['den_da', 50.6, 44.9, [1, 1]], ['den_da', 40.8, 52.1, [1, 1]], ['den_da', 39.1, 56.9, [1, 1]], ['den_da', 36.8, 37.3, [1, 1]],
     ['den_da', 38.5, 26, [1, 1]], ['den_da', 54.2, 20.2, [1, 1]], ['den_da', 66.2, 19.9, [1, 1]], ['den_da', 82.8, 26.7, [1, 1]],
-    ['den_da', 69, 44.1, [1, 1]], ['den_da', 82.3, 57, [1, 1]], ['den_da', 85.4, 39.1, [1, 1]], ['den_da', 24.1, 57.4, [1, 1]],
-    ['den_da', 48.5, 60.3, [1, 1]],
+    ['den_da', 69, 44.1, [1, 1]], ['den_da', 82.3, 57, [1, 1]], ['den_da', 85.4, 39.1, [1, 1]], ['den_da', 25, 56.2, [1, 1]],
+    ['den_da', 49, 58.5, [1, 1]],
     // bia nhỏ hai bên bia lớn, tảng đá
     ['bia_nho', 52.4, 55.3, [2, 1]], ['bia_nho', 68, 56.1, [2, 1]], ['da_lon', 43, 44.7, [2, 1]],
     ['cau_da', 34.5, 60.4],
-    // cây: hoa đào, tùng, cây tròn
-    ['anh_dao_lon', 46, 58.8, [2, 1]], ['anh_dao_nho', 56.2, 51.6, [1, 1]], ['anh_dao_lon', 70.5, 55.2, [2, 1]], ['anh_dao_lon', 77.6, 48.2, [2, 1]],
-    ['anh_dao_lon', 41.5, 18.8, [2, 1]], ['anh_dao_lon', 108, 23.2, [2, 1]], ['anh_dao_lon', 11.5, 38, [2, 1]], ['anh_dao_lon', 11.5, 51.5, [2, 1]],
-    ['cay_tron', 41.2, 47.8, [2, 1]], ['tung_cao', 11, 21, [1, 1]], ['tung_cao', 108, 12, [1, 1]], ['tung_bonsai', 50.5, 18.5, [2, 1]],
-    ['tung_bonsai', 72, 17.5, [2, 1]], ['cay_tron', 111, 56, [2, 1]], ['cay_tron', 13.5, 53, [2, 1]], ['bui_cay', 76, 39, [2, 1]],
+    // cây: hoa đào, tùng, cây tròn — (17/11) lùi khỏi mép vách >= 3 ô (tán không chìa ra vực)
+    ['anh_dao_lon', 45, 57.3, [2, 1]], ['anh_dao_nho', 56.2, 51.6, [1, 1]], ['anh_dao_lon', 70.5, 55.2, [2, 1]], ['anh_dao_lon', 77.6, 48.2, [2, 1]],
+    ['anh_dao_lon', 41.5, 18.8, [2, 1]], ['anh_dao_lon', 108, 23.2, [2, 1]], ['anh_dao_lon', 13.5, 38, [2, 1]],
+    ['cay_tron', 41.2, 47.8, [2, 1]], ['tung_cao', 13.5, 20.5, [1, 1]], ['tung_cao', 106, 12, [1, 1]], ['tung_bonsai', 50.5, 18.5, [2, 1]],
+    ['tung_bonsai', 72, 17.5, [2, 1]], ['bui_cay', 76, 39, [2, 1]],
     ['khom_hoa', 58, 56.5], ['khom_hoa', 63, 57], ['khom_hoa', 52, 42], ['khom_hoa', 70, 30],
     // (16/11) Chuồng Linh Thú (thay Luyện Võ Trường): chuồng mái ngói, máng ăn, máng nước, ụ rơm, ổ rơm, cột đèn (sprites/tm_chuong)
     // xếp theo mẫu bố cục ChatGPT (docs/concept/chuong_linh_thu_bo_cuc_chatgpt.png): chuồng giữa sau, ụ rơm trái chuồng, giếng nước phải,

diff --git a/tools/sect_bo_cuc.py b/tools/sect_bo_cuc.py
@@ -30,8 +30,8 @@ ISLAND = [(12, 14), (40, 13), (52, 10), (70, 10), (78, 6), (106, 6), (112, 14), 
 FOREST = [(40, 0), (78, 0), (78, 6), (70, 10), (52, 10), (40, 13)]          # rừng tím sau cổng (đặc, chỉ để nhìn)
 WATER = [   # khoanh theo ảnh concept (16/11)
     [(40, 20), (45, 19.5), (48, 22), (47.5, 26.5), (44, 27.5), (41, 25)],     # ao + thác nhỏ cạnh tháp
-    [(29, 57.5), (38, 57.5), (44, 59.5), (52, 61), (62, 61.5), (70, 61), (78, 60), (84, 59.5), (87, 61), (78, 62.5), (70, 63),
-     (60, 63.5), (50, 63), (42, 62), (30, 61)],                               # suối nam: dưới cầu đá -> men mép nam -> thác phải
+    [(29, 57.5), (38, 57.5), (44, 58.5), (52, 59.6), (62, 60), (70, 59.6), (76, 59.3), (80, 59.7), (84.4, 59.7), (85.4, 60.4), (85.4, 62.4), (80, 62.6), (70, 63),
+     (60, 63.5), (50, 63), (42, 62), (30, 61)],   # (17/11) nới rộng thêm ~1 ô về phía bắc; đầu đông rộng ra trọn trên thác phải                               # suối nam: dưới cầu đá -> men mép nam -> thác phải
 ]
 # Luyện Võ Trường: rào chữ nhật, cổng rào cạnh bắc lệch trái (đầu đường đông nam) + sân đất elip
 PEN = dict(x=82, y=41, w=26, h=16, gate=[83, 86], door=[84.5, 40.2])   # (16/11) Chuồng Linh Thú: nới lên 3 ô để chuồng nằm trọn trong rào
@@ -47,7 +47,7 @@ BUILDINGS = {
 }
 BIA = dict(box=(52, 46, 66, 55))
 BRIDGE = dict(box=(33, 54, 38, 60))
-FALLS = [(5, 5, 9, 22), (31, 61, 36, 68), (81, 61, 87, 68)]   # thác trái (vách tây), thác dưới cầu, thác phải
+FALLS = [(5, 5, 9, 22), (31, None, 36, 68), (80, None, 85, 68)]   # y0=None: thác bắt đầu ngay ô vách đầu tiên dưới nước suối (mép đá sỏi)   # thác trái (vách tây), thác dưới cầu, thác phải
 F = {k: v['foot'] for k, v in BUILDINGS.items()}
 PATHS = []   # đường dò từ ảnh (trace_paths)
 
@@ -97,7 +97,8 @@ def build():
     c = PLAZA['c']; d.ellipse([c[0] - PLAZA['rx'], c[1] - PLAZA['ry'], c[0] + PLAZA['rx'], c[1] + PLAZA['ry']], fill=ord('P'))
     d.rectangle([GATE['x'][0], GATE['y'][0], GATE['x'][1], GATE['y'][1]], fill=ord('G'))
     d.rectangle(BIA['box'], fill=ord('b'))
-    for f in FALLS: d.rectangle(f, fill=ord('W'))
+    for f in FALLS:
+        if f[1] is not None: d.rectangle(f, fill=ord('W'))
     g = np.array(L)
     # (17/11) bỏ nước nhô 1 ô (>= 3 cạnh là đất) cho bờ ao/suối tròn trịa, không răng cưa
     for _ in range(3):
@@ -124,6 +125,13 @@ def build():
         if not (0 <= x < NX and 0 <= y < NY) or seen[y, x] or not walk[y, x]: continue
         seen[y, x] = True; st += [(x + 1, y), (x - 1, y), (x, y + 1), (x, y - 1)]
     g[walk & ~seen] = ord('^')
+    # (17/11) thác từ suối: mỗi cột đổ từ ngay dưới ô nước thấp nhất xuống đáy -> đỉnh thác khớp mép bờ, cùng dòng với suối
+    for x0, y0, x1, y1 in FALLS:
+        if y0 is not None: continue
+        for x in range(x0, x1 + 1):
+            ws = np.where(g[:y1 + 1, x] == ord('~'))[0]
+            if not ws.size: continue
+            for y in range(ws.max() + 1, min(NY, y1 + 1)): g[y, x] = ord('W')
     return g
 
 

diff --git a/TASKS_TU_TIEN_LO.md b/TASKS_TU_TIEN_LO.md
@@ -428,6 +428,7 @@ Thiết kế + backlog đầy đủ (ChatGPT, 13/11): **`docs/chatgpt_tong_mon_M
   - Luyện Võ: E "Gọi sói luyện đòn", đủ sói thì báo; cả 4 sói ở trong rào. Cổng bí cảnh: E mở bảng chuẩn bị.
 - [x] (16/11) Luyện Võ Trường đổi thành CHUỒNG LINH THÚ (người phát triển yêu cầu; chỉ hình ảnh, tính năng nuôi thú để sau): đồ chuồng ChatGPT vẽ (`sprites/tm_chuong`: chuồng mái ngói, máng ăn, máng nước, ụ rơm, ổ rơm, cột đèn), nền cỏ trong rào, bỏ sói và "gọi sói luyện đòn" khỏi sảnh, E "Xem chuồng" báo sắp mở. Id khu giữ `luyen_vo`. Chuồng thu ×2,6 (15×12 ô, cỡ các nhà), đồ nhỏ ×3,8 — nét hơn bản đầu (×5,5 mờ, nhỏ). Làm lại theo mẫu bố cục ChatGPT (`docs/concept/chuong_linh_thu_bo_cuc_chatgpt.png`) + bộ đồ bản người phát triển chỉnh cho hợp concept: chuồng giữa sau, ụ rơm trái, giếng nước phải, ổ rơm, máng ăn, cột đèn, cây hoa đào, cờ trên rào, lối đá từ cổng tới cửa chuồng (`PEN.path`). Rào/cổng/trụ cờ/cây ChatGPT vẽ theo mẫu (`docs/concept/chuong_rao_cong_chatgpt.png`): đoạn rào ngang nối tiếp, mép đông/tây trụ + 2 thanh gỗ, trụ cờ ở 4 góc, cổng mái ngói, cây hoa đào + tùng; lối đá uốn từ cổng xuống trước ụ rơm tới bậc chuồng. Ảnh `docs/playtest/M8_chuong_linh_thu.png`
 - [x] (16/11) Phong cảnh núi quanh đảo (`sprites/tm_nui`, ChatGPT vẽ: cột đá có tùng, cụm cột đá hoa đào, đảo thác, dãy núi xa, đảo có đình, mây cuộn) đặt trong biển mây; ngoài mép bản đồ coi là mây (hết rừng tràn mép dưới). Đổ bóng: bóng nằm ngay dưới vật (silhouette ép dẹt 0,26, mép mềm, mờ 45%, không lệch sang bên) cho công trình, cây, đồ vật; bóng tròn dưới chân nhân vật. Ảnh `docs/playtest/M8_sanh_nui_bong.png`
+- [x] (17/11) Sửa vật thể/địa hình sảnh theo góp ý: sương mù biển mây 2 lớp trôi mượt + lớp bóng tạo khối, mép sương tan mềm qua chân vách (mặt nạ ô mây nội suy); cây lùi khỏi mép vách ≥3 ô (bỏ 3 cây chìa ra vực); cỏ/hoa ngay trước chân nhà vẽ ở lớp vật thể (đè lên nền nhà); đứng sau nhà (thân + đầu bị che) -> cả nhà mờ 45% như tán cây, đứng trong nhà không mờ; bóng tiếp đất elip cho vật nhỏ (đèn đá...); suối nam rộng thêm ~1 ô; thác dưới cầu và thác phải bắt đầu ngay dưới ô nước (đỉnh thác khớp mép bờ), thân thác kéo màu về tông suối; góc bậc thang mép vách bo cung (góc lồi lộ mặt đá, góc lõm phủ cỏ). Thử thật trong trình duyệt, test 209/209. Ảnh `docs/playtest/M8_sua_vat_the.png`
 - [ ] M8-12 HUD, M8-14 cảm ứng, M8-16 save/regression, M8-17..18 playtest
 
 ---
